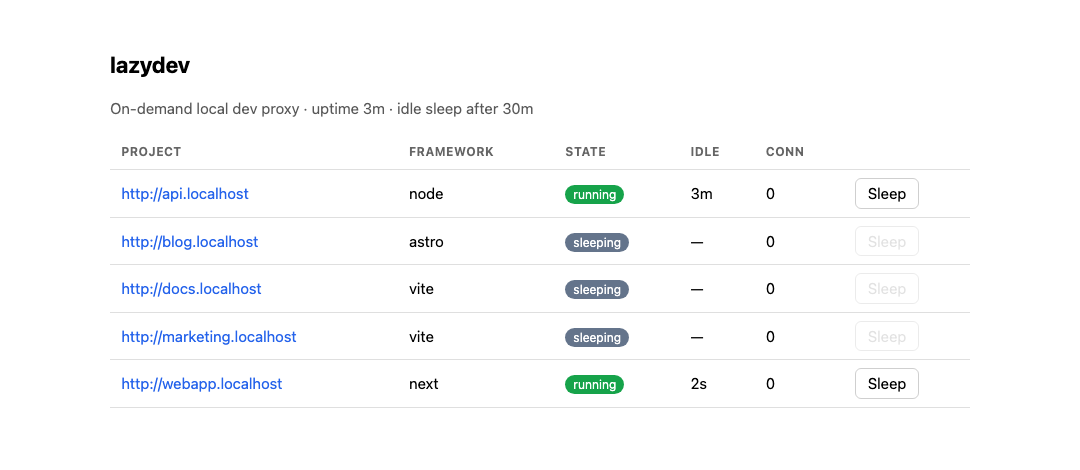
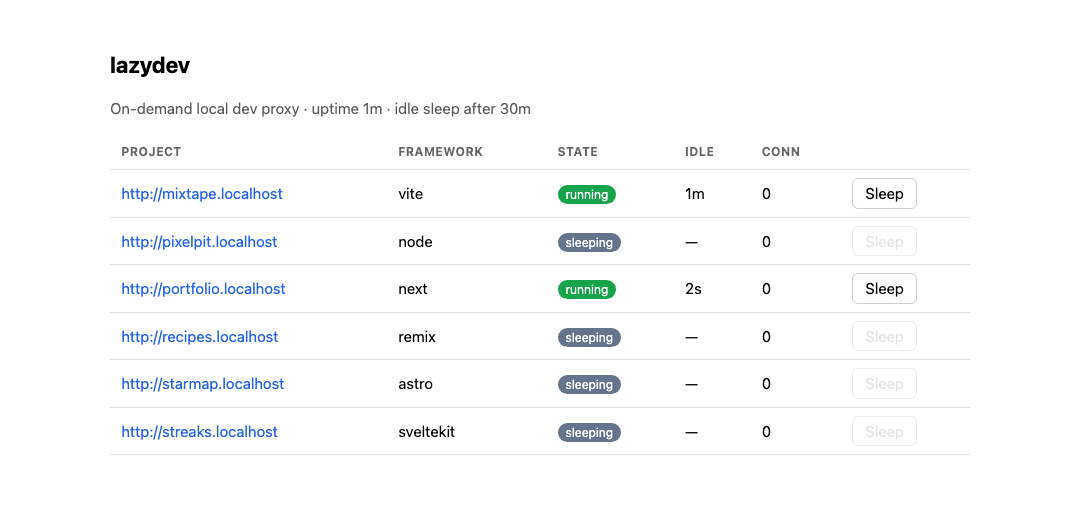
Recast the demo: mixtape, pixelpit, portfolio, recipes, starmap, streaks
One cast across the hero transcript and the dashboard screenshot, one
project per framework. Screenshot recaptured from the sandboxed daemon
with two projects genuinely awake at different idle times.

diff --git a/README.md b/README.md
@@ -2,23 +2,23 @@
 
 A local proxy that starts dev servers on demand behind permanent URLs.
 
-You have ten projects. Each has a dev server that grabs a port and eats RAM whether or not you're using it, so you either keep fifteen terminal tabs alive or keep restarting things and guessing which port is which. lazydev's deal: every project gets a permanent URL, `http://webapp.localhost`, and the server behind it runs only while you're actually using it.
+You have ten projects. Each has a dev server that grabs a port and eats RAM whether or not you're using it, so you either keep fifteen terminal tabs alive or keep restarting things and guessing which port is which. lazydev's deal: every project gets a permanent URL, `http://portfolio.localhost`, and the server behind it runs only while you're actually using it.
 
 ```
 $ npx lazydev
 lazydev: scanning for projects...
 
-  HOST    PORT  FRAMEWORK  STARTCMD     DIR
-  api     3010  next       pnpm dev     ~/code/api
-  blog    3020  astro      npm run dev  ~/code/blog
-  webapp  3030  vite       pnpm dev     ~/code/webapp
+  HOST       PORT  FRAMEWORK  STARTCMD     DIR
+  mixtape    3010  vite       pnpm dev     ~/code/mixtape
+  portfolio  3020  next       pnpm dev     ~/code/portfolio
+  starmap    3030  astro      npm run dev  ~/code/starmap
 
 lazydev is serving the front door on :4000 (:80 was unavailable, using :4000).
 
 your projects:
-  http://api.localhost:4000
-  http://blog.localhost:4000
-  http://webapp.localhost:4000
+  http://mixtape.localhost:4000
+  http://portfolio.localhost:4000
+  http://starmap.localhost:4000
 
 dashboard: http://lazydev.localhost:4000
 ```
@@ -31,9 +31,9 @@ The dashboard at `http://lazydev.localhost`:
 
 ## How it works
 
-You open `http://webapp.localhost`. Addresses ending in `.localhost` reach your own machine by web standard, no /etc/hosts edits, no DNS tools, so the request lands on lazydev, which reads the host name and looks `webapp` up in its registry: one JSON file of name, folder, port, start command.
+You open `http://portfolio.localhost`. Addresses ending in `.localhost` reach your own machine by web standard, no /etc/hosts edits, no DNS tools, so the request lands on lazydev, which reads the host name and looks `portfolio` up in its registry: one JSON file of name, folder, port, start command.
 
-If webapp's server is running, the request is piped straight through and you never notice lazydev was there. If it's asleep, you get an instant page with a spinner while lazydev runs the project's start command; the moment the port answers you're handed to the real app, no manual reload. A Next app cold-starts in about 8 seconds on my machine, timed with curl. Thirty minutes after the last request, the server is killed and its RAM freed. The URL keeps working; the next visit wakes it again.
+If portfolio's server is running, the request is piped straight through and you never notice lazydev was there. If it's asleep, you get an instant page with a spinner while lazydev runs the project's start command; the moment the port answers you're handed to the real app, no manual reload. A Next app cold-starts in about 8 seconds on my machine, timed with curl. Thirty minutes after the last request, the server is killed and its RAM freed. The URL keeps working; the next visit wakes it again.
 
 Sleeping a project kills the whole process tree (pnpm, the framework under it, its workers), not just the top pid. WebSockets are piped raw, so hot-module reload works through the proxy. `tenant.myapp.localhost` routes to `myapp` with the Host header intact, so multi-tenant apps still see their subdomain. And a dev server you started yourself in a terminal gets adopted, not fought.
 